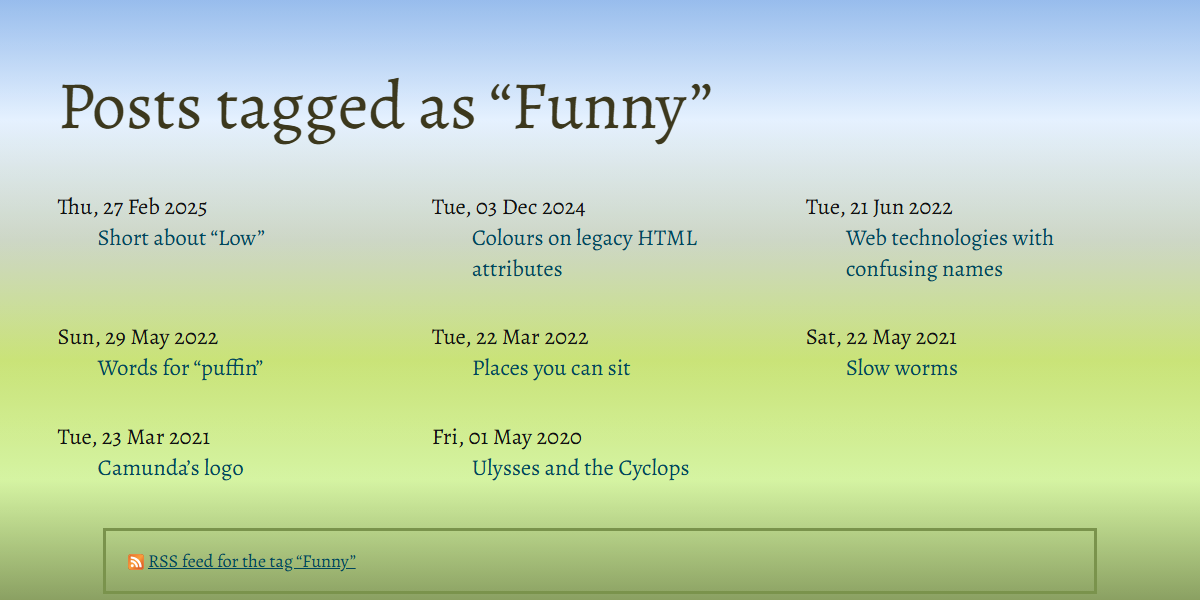
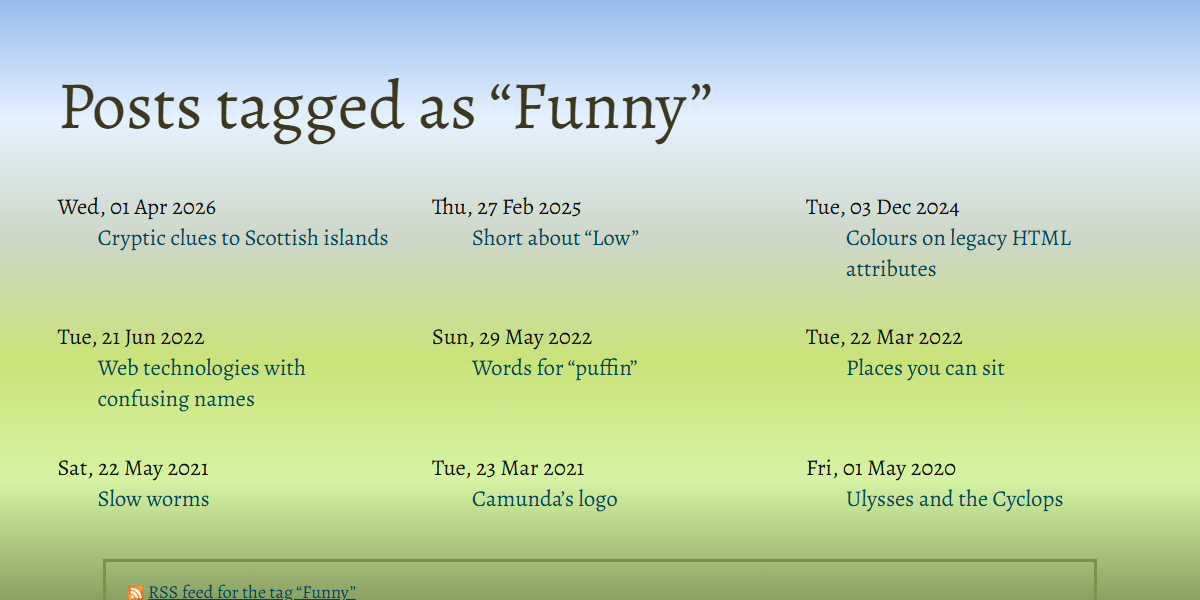
Cryptic islands article

diff --git a/src/content/posts/2026/cryptic-scottish-islands.md b/src/content/posts/2026/cryptic-scottish-islands.md
@@ -1,0 +1,134 @@
+---
+date: 2026-04-01 10:30:00
+title: Cryptic clues to Scottish islands
+draft: false
+tags: ['Funny', 'Linguistics']
+---
+
+<style>
+	q {
+		text-transform: uppercase;
+	}
+</style>
+
+# Cryptic clues to Scottish islands 🏴
+
+It’s April Fools’ Day, or [April Cools’ Day](https://www.aprilcools.club/) if you prefer.
+This is a good day for me to post something a little unexpected to my blog, that might surprise or (hopefully) amuse people.
+
+I’ve been getting into cryptic crosswords!
+I wouldn’t say I’m great at them — the number of full-size puzzles I’ve solved without looking up words is exactly two.
+But my daily newspaper prints miniature ones, which I have a good chance of solving, and I can make a decent fist at the full-size ones.
+
+So in that spirit, I’ve devised some clues, on the theme of islands in Scotland because there’s a lot of them.
+
+A normal crossword might contain the clue <samp>Exhaust drug for Scottish island (5)</samp>, where <samp>Exhaust drug</samp> is wordplay and <samp>Scottish island</samp> is the definition.
+
+However, all of the solutions below are Scottish islands, and I wanted to avoid repeating “Scottish island” (or suchlike) in every clue.
+Therefore a clue below might have <em>two</em> wordplay components, instead of one wordplay and one definition (or indeed, two definitions).
+
+So my clues are more like <samp>Exhaust drug, one in plant (5)</samp>, giving <q>Tiree</q>.
+If you’re not used to cryptic clues, here’s a hint: <samp>exhaust drug</samp> can be interpreted as <q>tire E</q> (ecstasy), and <samp>one in plant</samp> can be interpreted as <q>I</q> (1) inside <q>tree</q>; hence the clue produces <q>Tiree</q> twice.
+(I know this example clue is kinda rubbish, that’s why it’s the example.)
+
+As well as synonyms, there may be anagrams, homophones, or other wordplay.
+
+## Clues
+
+1. One murder is not ordained (5)
+1. Sounds like equipment involved in gig haphazardly (5)
+1. Fish shake booty with badger around (4, 4)
+1. Land of sheepishly being heard as an statement of devotion? (4, 2, 3)
+1. Jangling keys sound like something blue (4)
+1. Shout a Coldplay song releasing a cry of pain (4)
+1. Consider a cape (4)
+1. A flower, large in iron, arranged if serial (4, 4)
+1. Called someone gorgeous in, but enigmatically (4)
+1. Mountain range hearing one in a trial (4)
+1. One on one with Shrek’s wife without fail (4)
+1. You and I wander, you starting after troubled waters (7)
+1. French coin, Thursday first — it shouts wildly about the end of Pompidou (5, 4)
+1. Shrewish wit liar confused Martin and Kamala? (5, 3, 6)
+1. Punctuation mark, for instance distorted, any’s cool (8)
+1. Boy in visible expression of love with plus one in a mountain chain reaction (6)
+1. Kindly or mean, an agitated principal network nerd north-east of Hoy finally (8, 6)
+1. Your camera obscura lacks a canopy, ends beam of light around a Roman penny (6)
+1. Isle bizarrely lies back (4)
+
+### Bonus clue
+
+A Scottish island is clued seven times here.
+
+<ol start="20">
+<li>
+A tree confounded singer Winehouse badly millions of years ago; prime minister Theresa is allowed to mash sweet potato for a month (3)
+</li>
+</ol>
+
+<figure>
+<img src="./images/2026/isle-of-may.webp" alt="A small island in the sea" width="720" style="aspect-ratio: 4 / 3" />
+<figcaption>The island in the bonus</figcaption>
+</figure>
+
+## Answers
+
+<details data-pagefind-ignore>
+<summary>Show/hide answers</summary>
+
+1. <q>Islay</q>
+1. <q>Gigha</q>
+1. <q>Bass Rock</q>
+1. <q>Isle of Ewe</q>
+1. <q>Skye</q>
+1. <q>Yell</q>
+1. <q>Mull</q>
+1. <q>Fair Isle</q>
+1. <q>Bute</q>
+1. <q>Jura</q>
+1. <q>Iona</q>
+1. <q>Westray</q>
+1. <q>South Uist</q>
+1. <q>Lewis and Harris</q>
+1. <q>Colonsay</q>
+1. <q>Pladda</q>
+1. <q>Mainland Orkney</q>
+1. <q>Raasay</q>
+1. <q>Seil</q>
+
+</details>
+
+<details data-pagefind-ignore>
+<summary>Show/hide explanations</summary>
+
+1. “One” = <q>I</q> & “murder” = <q>slay</q><br/>“Is not ordained” = <q>Is lay</q>
+1. Homophone of <q>gear</q><br/>Substring of <q><u>gig ha</u>phazardly</q>
+1. “Fish” = <q>bass</q> & “shake” = <q>rock</q><br/>“Booty” = <q>ass</q> with “badger” = <q>brock</q> around
+1. “Land of sheep” = <q>Isle of Ewe</q><br/>Homophone of <q>I love you</q>
+1. Anagram of <q>keys</q><br/>Homophone of <q>sky</q>
+1. “Shout” = <q>Yell</q><br/>“A Coldplay song” = <q>Yellow</q> without “cry of pain” = <q>ow</q>
+1. “Consider” = <q>mull</q><br/>“Cape” = <q>mull</q>
+1. “A flower large” = <q>A IRIS L</q> in “iron” = <q>Fe</q><br/>Anagram of <q>if serial</q>
+1. Homophone of <q>Beaut</q><br/>Substring of <q><u>but e</u>nigmatically</q>
+1. “Mountain range” = <q>Jura</q><br/>Homophone of <q>juror</q>
+1. “One on one” = <q>I on a</q><br/><q>Fiona</q> without <q>F</q>
+1. “You and I wander” = <q>We stray</q><br/>“you starting” = <q>Y</q> after anagram of <q>waters</q>
+1. “French coin” = <q>sou</q> & “Thursday” = <q>Thu</q> & “first” = <q>1st</q><br/>Anagram of <q>it shouts</q> placed around final letter of <q>Pompidou</q>
+1. Anagram of <q>Shrewish wit liar</q><br/>Martin = <q>Lewis</q> & <q>and</q> & <q>Kamala</q> = Harris
+1. “Punctuation mark” = <q>Colon</q> & “for example” = <q>say</q><br/>Anagram of <q>any’s cool</q>
+1. “Boy” = <q>Lad</q> in “visible expression of love” = <q>PDA</q> (public display of affection)<br/>“Plus” = <q>add</q> in “one of a mountain chain” = <q>Alp</q>, reversed
+1. Anagram of <q>kindly or mean an</q><br/>“Principal” = <q>main</q> & “network” = <q>LAN</q> & “nerd” = <q>DORK</q> & “north-east of” = <q>NE</q> & final letter of <q>Hoy</q><br/>(fun fact: Mainland Orkney is actually north-east of Hoy)
+1. End letters of <q>your camera obscura lacks a canopy</q><br/>“Beam of light” = <q>Ray</q> around <q>A</q> <q>AS</q> (“Roman penny”)
+1. Anagram of <q>isle</q><br/><q>Lies</q> backwards
+
+</details>
+
+<details data-pagefind-ignore>
+<summary>Show/hide answer to bonus</summary>
+
+<ol start="18">
+<li>
+<q>May</q>
+</li>
+</ol>
+
+</details>
